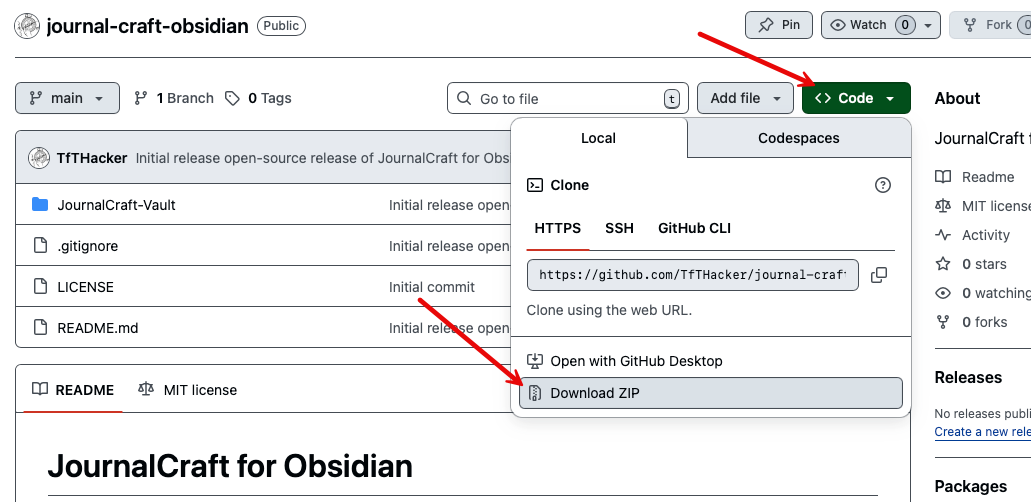
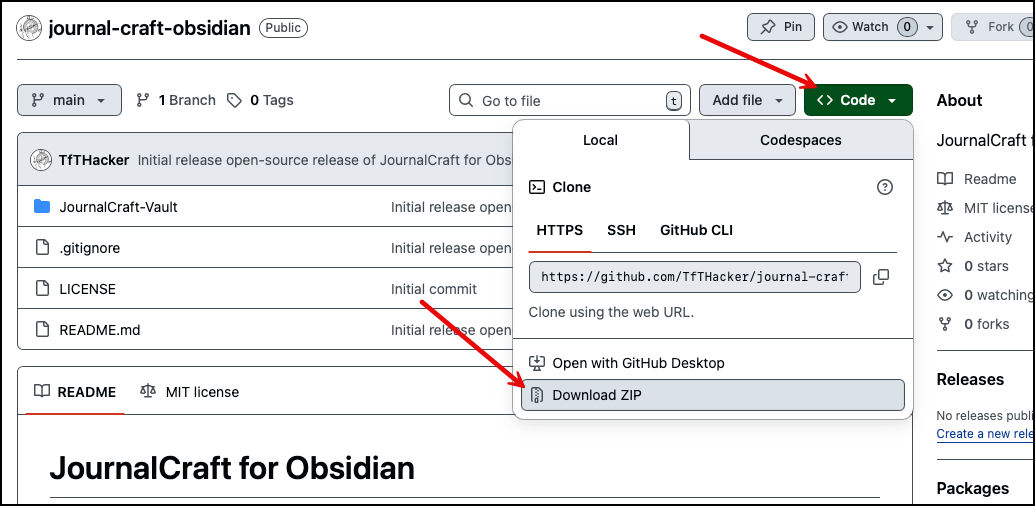
Replace Markdown image syntax with HTML for better compatibility in README

diff --git a/README.md b/README.md
@@ -5,11 +5,11 @@ Learn more about JournalCraft at https://tfthacker.com/jco. This tool was create
 # Using this learning vault
 You need to download this entire repositiory to your local machine. You can download by clicking on the Code button, then "Download ZIP" as show in the image below.
 
-![Download ZIP](./media/download.png)
+<img src="./media/download.png" alt="Download ZIP" width="400">
 
 Once the ZIP file is downloaded, extract it to your desired location. Then, open Obsidian and using the Manage Vault option, select "Open folder as vault" and navigate to the location where you extracted the ZIP file.
 
-![Open Vault](./media/openvault.png)
+<img src="./media/openvault.png" alt="Open Vault" width="400">
 
 Select the folder named **JournalCraft-Vault**.
 
